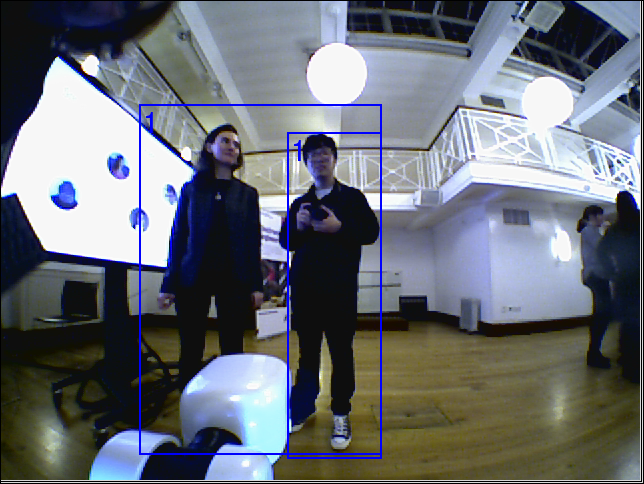
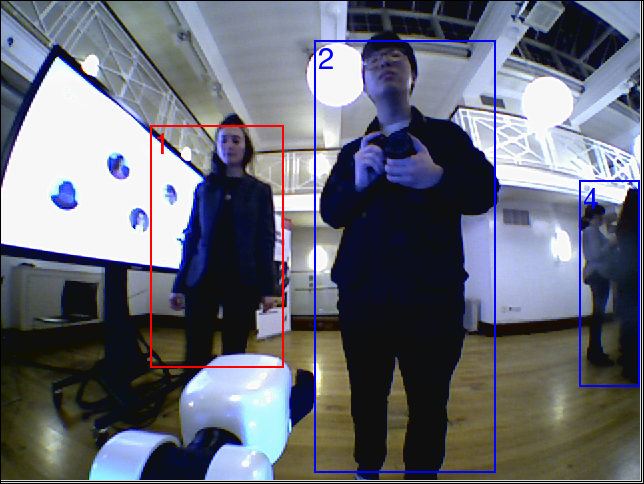
human tracking output and loading implemented, tested; missing: human class change

diff --git a/src/human-finder.py b/src/human-finder.py
@@ -3,7 +3,7 @@ import numpy as np
 import cv2
 import imutils
 from centroidtracker import CentroidTracker
-
+from pprint import pprint
 
 folder = '../kcltestimages/bbox_saves'
 tracked_bbox_output = os.path.join(folder, 'human_bbox.xml')
@@ -20,7 +20,7 @@ COLORS = np.random.uniform(0, 255, size=(len(CLASSES), 3))
 ct = CentroidTracker()
 
 
-def write_xml(objects, rects, frame_path):
+def write_xml(frames, max_id):
     fd = None
     try:
         fd = open(tracked_bbox_output, 'w')
@@ -30,19 +30,18 @@ def write_xml(objects, rects, frame_path):
     print >> fd, "<tagset>"
     print >> fd, "  <video>"
     print >> fd, "	<videoName>" + 'Human_Detected_GroupAnnotated_Dataset' + "</videoName>"
-    for cur_object_id in range(maxid):
+    for cur_object_id in range(max_id+1):
         found_rects = False
-        for (i, f) in enumerate(self.frames):
-            for (j, r) in enumerate(f.get_rects()):
-                if r.object_id == cur_object_id + 1:
+        for idx, frame in enumerate(frames):
+            for obj_id, rect in frame['rects'].items():
+                if obj_id == cur_object_id:
                     if not found_rects:
                         found_rects = True
-                        fd.write("	<object nr=\"" + str(cur_object_id + 1) + "\" class=\"" + str(
-                            self.class_assignations[cur_object_id]) + "\">\n")
-                    s = "	  <bbox x=\"" + str(int(r.x1)) + "\" y=\"" + str(int(r.y1))
-                    s = s + "\" width=\"" + str(int(r.x2 - r.x1 + 1)) + "\" height=\"" + str(int(r.y2 - r.y1 + 1))
-                    s = s + "\" framenr=\"" + str(i + 1)
-                    s = s + "\" framefile=\"" + self.filenames[i] + "\"/>\n"
+                        fd.write("	<object nr=\"" + str(cur_object_id + 1) + "\" class=\"" + str(None) + "\">\n")
+                    s = "	  <bbox x=\"" + str(int(rect[0])) + "\" y=\"" + str(int(rect[1]))
+                    s = s + "\" width=\"" + str(int(rect[2] - rect[0] + 1)) + "\" height=\"" + str(int(rect[3] - rect[1] + 1))
+                    s = s + "\" framenr=\"" + str(idx + 1)
+                    s = s + "\" framefile=\"" + frame['path'] + "\"/>\n"
                     fd.write(s)
         if found_rects:
             print >> fd, "	</object>"
@@ -64,11 +63,19 @@ def get_files_to_analyse():
 
 
 def detect_and_track_people(files_to_detect_in):
+    frames = []
+    max_id = -1
     for image_path in files_to_detect_in:
-        trackers = cv2.MultiTracker_create()
+        save_frame = {'path': image_path,
+                      'rects': {}}
+
         image = cv2.imread(image_path)
+        oh, ow = image.shape[:2]
         frame = imutils.resize(image, width=400)
         (h, w) = frame.shape[:2]
+        rath = float(oh)/float(h)
+        ratw = float(ow)/float(w)
+        # print '%.2f, %.2f' % (rath, ratw)
         blob = cv2.dnn.blobFromImage(cv2.resize(frame, (300, 300)), 0.007843, (300, 300), 127.5)
         net.setInput(blob)
         detections = net.forward()
@@ -112,11 +119,22 @@ def detect_and_track_people(files_to_detect_in):
             cv2.circle(frame, (centroid[0], centroid[1]), 4, (0, 255, 0), -1)
         for object_id in objects.keys():
             print object_id, ' - ', obj_rects[object_id]
+            if object_id > max_id:
+                max_id = object_id
+            true_rects = [obj_rects[object_id][0] * ratw,
+                          obj_rects[object_id][1] * rath,
+                          obj_rects[object_id][2] * ratw,
+                          obj_rects[object_id][3] * rath,]
+            save_frame['rects'][object_id] = true_rects
         print '>' *10
-        cv2.imshow("Frame", frame)
-        cv2.waitKey(0)
+        frames.append(save_frame)
+        # cv2.imshow("Frame", frame)
+        # cv2.waitKey(0)
+    return frames, max_id
 
 
 if __name__ == '__main__':
     files_to_detect_in = get_files_to_analyse()
-    detect_and_track_people(files_to_detect_in)
+    frames, max_id = detect_and_track_people(files_to_detect_in)
+    pprint(frames)
+    write_xml(frames, max_id)

diff --git a/src/mod-hum-annotation.py b/src/mod-hum-annotation.py
@@ -308,6 +308,7 @@ class AAController:
 			self.depth_available = False
 
 		self.output_filename = cfg.MAIN_DIR + cfg.XML_PREFIX
+		self.human_tracker_xml = cfg.MAIN_DIR + cfg.HUM_TRA_PREFIX
 		if cfg.AID_IMG != 'default':
 			self.aid_filename = cfg.MAIN_DIR + cfg.AID_IMG
 		# If the given XML file exists, parse it
@@ -325,6 +326,9 @@ class AAController:
 				# tkMessageBox.showinfo(TITLE, s)
 				# sys.exit(1)
 				tkMessageBox.showinfo(TITLE, "XML File " + self.output_filename + " does not exist. Creating a new one.")
+				if cfg.HUM_TRA_PREFIX is not "default":
+					self.load_human_tracked_xml()
+					print 'LOADING TRIGGERED'
 
 	@staticmethod
 	def usage():
@@ -705,6 +709,66 @@ class AAController:
 			# Add the classnr to the object_id array. Grow if necessary
 			anr = int(get_att(a, "nr"))
 			aclass = int(get_att(a, "class"))
+			# print "-----",anr,aclass
+			# print len(self.ClassAssignations)
+			if len(self.class_assignations) < anr:
+				# print "Growing object_id:"
+				self.class_assignations += [None] * (anr - len(self.class_assignations))
+			self.class_assignations[anr - 1] = aclass
+			# print "size of object_id array:", len(self.ClassAssignations), "array:", self.ClassAssignations
+
+			# Get all the bounding boxes for this object
+			bbs = a.findall("bbox")
+			if len(bbs) < 1:
+				tkMessageBox.showinfo(TITLE, "No <bbox> tags found for an object in the input XML file!")
+				sys.exit(1)
+			for bb in bbs:
+
+				# Add the bounding box to the frames() list
+				bfnr = int(get_att(bb, "framenr"))
+				bx = int(get_att(bb, "x"))
+				by = int(get_att(bb, "y"))
+				bw = int(get_att(bb, "width"))
+				bh = int(get_att(bb, "height"))
+				try:
+					self.add_rect(bx, by, bx + bw - 1, by + bh - 1, anr, bfnr - 1)
+				except IndexError:
+					print "*** ERROR ***"
+					print "The XML file contains rectangles in frame numbers which are outside of the video"
+					print "(frame number too large). Please check whether the XML file really fits to these"
+					print "frames."
+					sys.exit(1)
+
+	def load_human_tracked_xml(self):
+		tree = xml.parse(self.human_tracker_xml)
+		# root_element = tree.getroot()
+
+		# Get the single video tag
+		vids = tree.findall("video")
+		if len(vids) < 1:
+			tkMessageBox.showinfo(TITLE, "No <video> tag found in the input XML file!")
+			sys.exit(1)
+		if len(vids) > 1:
+			tkMessageBox.showinfo(TITLE, "Currently only a single <video> tag is supported per XML file!")
+			sys.exit(1)
+		vid = vids[0]
+
+		# Get the video name
+		# x=getSingleTag(vid,"videoName")
+		# if (x.text is None) or (len(x.text)==0) or (x.text=="NO-NAME"):
+		#	tkMessageBox.showinfo(TITLE, "The video name in the given XML file is empty. Please provide the correct name before saving the file.")
+		#	self.videoname="NO-NAME"
+		# else:
+		#	self.videoname=x.text
+
+		# Get all the objects
+		objectnodes = vid.findall("object")
+		if len(objectnodes) < 1:
+			tkMessageBox.showinfo(TITLE, "The given XML file does not contain any objects.")
+		for a in objectnodes:
+			# Add the classnr to the object_id array. Grow if necessary
+			anr = int(get_att(a, "nr"))
+			aclass = -1
 			# print "-----",anr,aclass
 			# print len(self.ClassAssignations)
 			if len(self.class_assignations) < anr:

diff --git a/src/config.py b/src/config.py
@@ -35,7 +35,7 @@ __C.DATASET_NAME = "default"
 __C.OWNER = "default"
 __C.AID_IMG = "default"
 __C.BBOX_PREFIX = "default"
-
+__C.HUM_TRA_PREFIX = "default"
 
 def _merge_a_into_b(a, b):
     """Merge config dictionary a into config dictionary b, clobbering the
